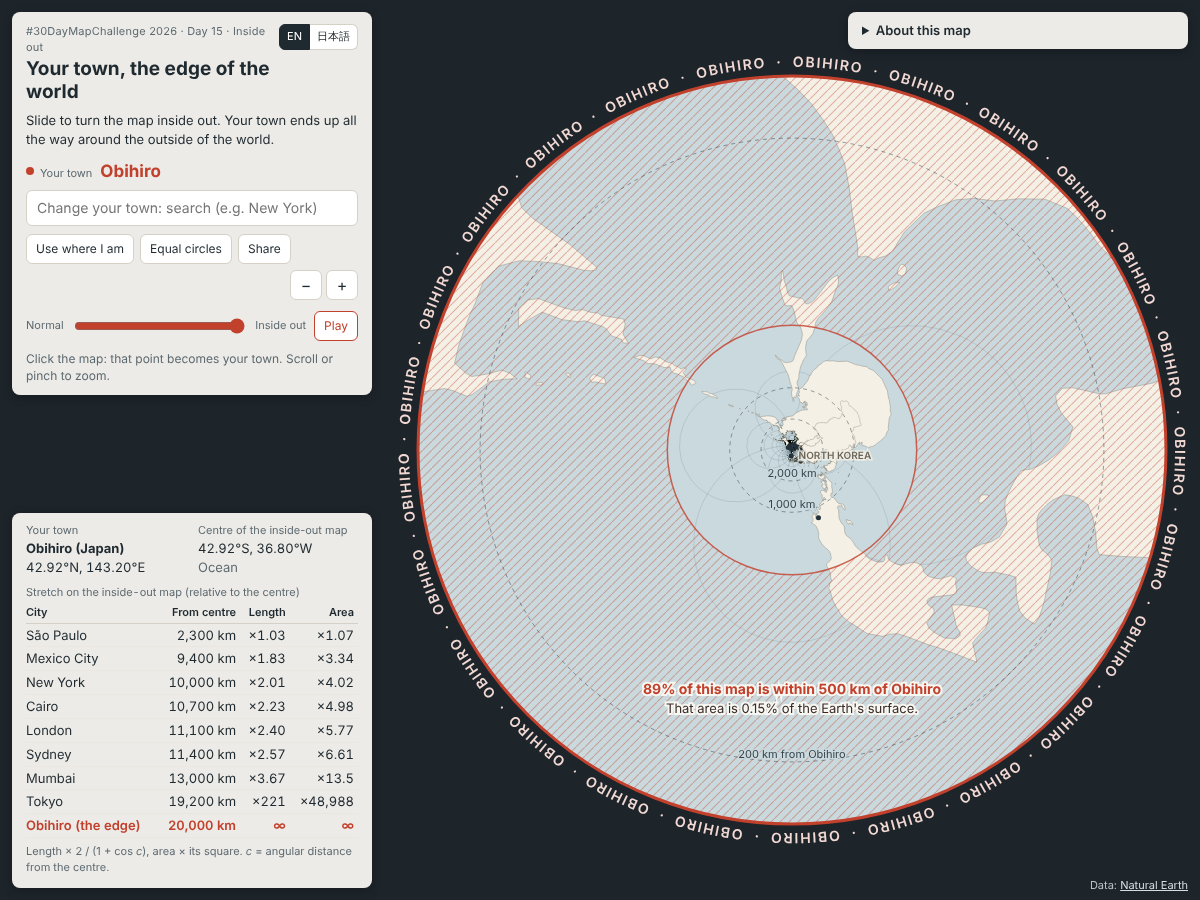
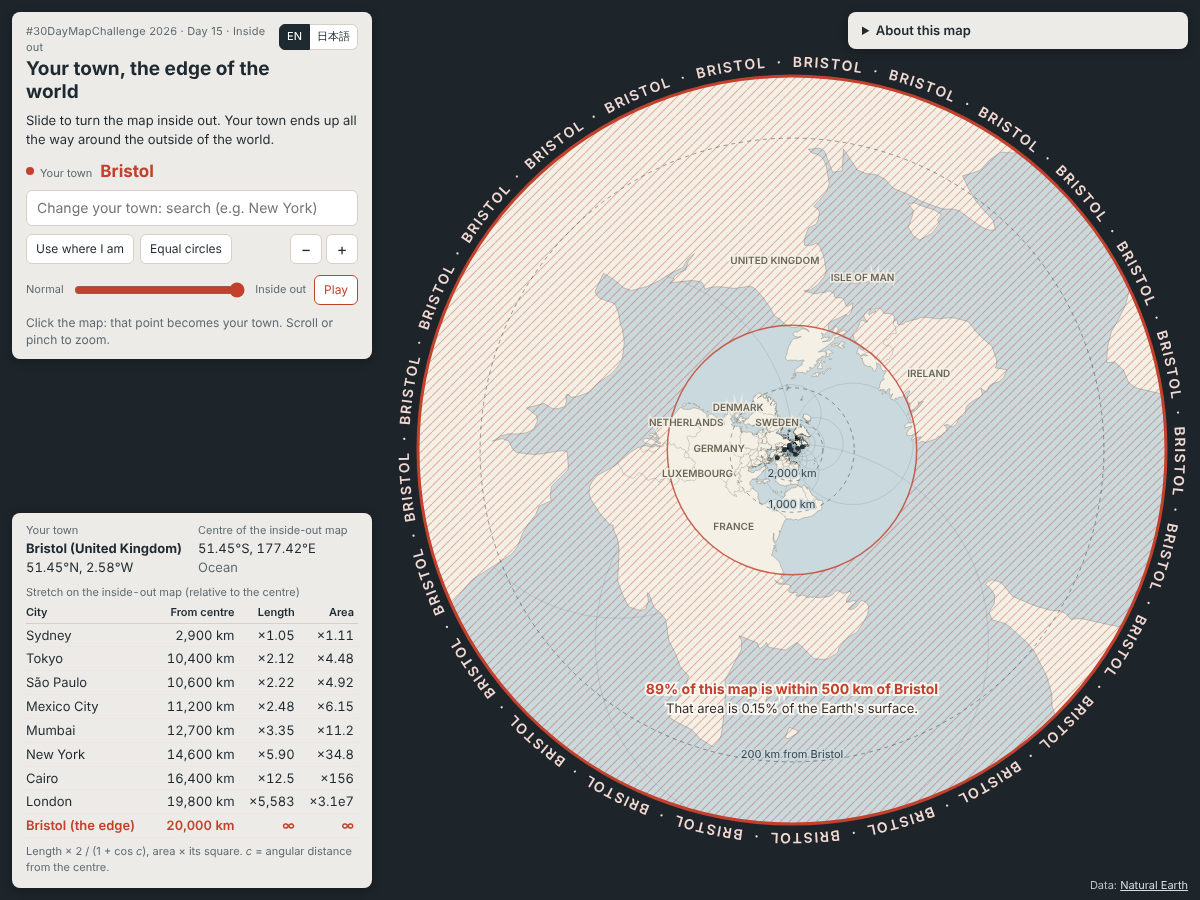
Open with Bristol and remove the Share button

diff --git a/app.js b/app.js
@@ -5,7 +5,7 @@
   const CLIP = 178.5; // degrees from the centre that are drawn
   const EARTH_R = 6371; // km
   const CIRCLE_KM = 500;
-  const DEFAULT = { lat: 42.92, lon: 143.2, name: "Obihiro", ja: "帯広市", country: "Japan" };
+  const DEFAULT = { lat: 51.45, lon: -2.58, name: "Bristol", ja: "ブリストル", country: "United Kingdom" };
   const REF_CITIES = [
     { name: "Tokyo", ja: "東京", lat: 35.687, lon: 139.749 },
     { name: "New York", ja: "ニューヨーク", lat: 40.752, lon: -73.982 },
@@ -44,7 +44,6 @@
       searchPlaceholder: "Change your town: search (e.g. New York)",
       useLocation: "Use where I am",
       circles: "Equal circles",
-      share: "Share",
       flipNormal: "Normal",
       flipInside: "Inside out",
       flipLabel: "Turn the map inside out",
@@ -66,7 +65,7 @@
       aboutP3: "At the left end of the slider the map is centred on your town, like an ordinary map. Moving the slider turns the centre away, until it reaches the point on the exact opposite side of the Earth. In this projection the point opposite the centre is stretched to infinite size, so your town can no longer be drawn as a point: it wraps around the whole map as its outer edge. The area within 500 km of it (the red band) then fills 89% of the map, and the rest of the world is squeezed into the middle.",
       notesH: "Notes",
       note1: "The map is cut at 178.5° from the centre. On the inside-out map, the small area within 1.5° (about 170 km) of your town cannot be drawn; the outer circle stands for it.",
-      note2: "Your location is used only inside your browser. It is not sent anywhere and not saved. It is added to a link only if you press Share and confirm.",
+      note2: "Your location is used only inside your browser. It is not sent anywhere and not saved. It is not written to the address bar.",
       note3: 'Data: <a href="https://www.naturalearthdata.com/">Natural Earth</a> (public domain): Admin 0 countries 1:110m and 1:50m (via <a href="https://github.com/topojson/world-atlas">world-atlas</a>), Populated Places 1:10m.',
       credit: 'Data: <a href="https://www.naturalearthdata.com/">Natural Earth</a>',
       ocean: "Ocean",
@@ -84,9 +83,6 @@
       geoDenied: "Location permission was not given.",
       geoFailed: "Could not get your location.",
       geoUsed: "Your location is used only in this browser. It is not sent or saved.",
-      shareConfirm: "This link contains your current location (rounded to about 1 km). Anyone who opens it will see where you are. Share it?",
-      copied: "Link copied.",
-      copyFailed: "Copy this link:",
       zoomIn: "Zoom in",
       zoomOut: "Zoom out",
       mapLabel: (n) => `Stereographic world map that turns inside out: ${n} becomes the outer edge of the world.`,
@@ -98,10 +94,9 @@
       yourTown: "あなたの町",
       townOnMap: (n) => `${n}（あなたの町）`,
       searchLabel: "町を検索",
-      searchPlaceholder: "あなたの町を変える：検索（例：札幌、New York）",
+      searchPlaceholder: "あなたの町を変える：検索（例：帯広、New York）",
       useLocation: "現在地にする",
       circles: "同じ大きさの円",
-      share: "共有",
       flipNormal: "ふつう",
       flipInside: "裏返し",
       flipLabel: "地図を裏返す",
@@ -123,7 +118,7 @@
       aboutP3: "スライダーの左端では、あなたの町を中心にしたふつうの地図です。スライダーを動かすと中心が移っていき、右端で地球のちょうど裏側の地点に着きます。この図法では中心の裏側の点が無限大に引き伸ばされるので、あなたの町は点として描けなくなり、地図全体を囲む外周になります。このとき、町から500 km以内（赤い帯）が地図の89%を占め、残りの世界は中央に押し込まれます。",
       notesH: "注記",
       note1: "中心から178.5°より外側は切り取っています。裏返した地図では、あなたの町から1.5°（約170 km）以内は描けないため、外周の円がその場所を表します。",
-      note2: "位置情報はブラウザの中だけで使い、どこにも送信せず、保存もしません。「共有」を押して確認したときだけ、リンクに含めます。",
+      note2: "位置情報はブラウザの中だけで使い、どこにも送信せず、保存もしません。アドレスバーにも書き込みません。",
       note3: '出典：<a href="https://www.naturalearthdata.com/">Natural Earth</a>（パブリックドメイン）。国境 1:110m・1:50m（<a href="https://github.com/topojson/world-atlas">world-atlas</a> 経由）、Populated Places 1:10m。',
       credit: '出典：<a href="https://www.naturalearthdata.com/">Natural Earth</a>',
       ocean: "海",
@@ -141,9 +136,6 @@
       geoDenied: "位置情報の利用が許可されませんでした。",
       geoFailed: "現在地を取得できませんでした。",
       geoUsed: "位置情報はこのブラウザの中だけで使い、送信・保存はしません。",
-      shareConfirm: "このリンクには現在地（約1 km単位に丸めたもの）が含まれます。開いた人にあなたの居場所がわかります。共有しますか？",
-      copied: "リンクをコピーしました。",
-      copyFailed: "このリンクをコピーしてください：",
       zoomIn: "拡大",
       zoomOut: "縮小",
       mapLabel: (n) => `裏返るステレオ図法の世界地図。${n}が世界の外周になります。`,
@@ -158,7 +150,7 @@
   const canvas = $("map");
   const ctx = canvas.getContext("2d");
   const els = {
-    q: $("q"), results: $("results"), geo: $("geo"), circles: $("circles"), share: $("share"),
+    q: $("q"), results: $("results"), geo: $("geo"), circles: $("circles"),
     zoomIn: $("zoomIn"), zoomOut: $("zoomOut"), status: $("status"), flip: $("flip"), play: $("play"),
     selName: $("selName"), selCoord: $("selCoord"), ctrCoord: $("ctrCoord"), ctrKind: $("ctrKind"),
     stretchBody: $("stretchBody"), circleLegend: $("circleLegend"), info: $("info"), infoToggle: $("infoToggle"),
@@ -727,26 +719,6 @@
     return { lat, lon, name, ja: "", country: "", source: "url" };
   }
 
-  function shareUrl() {
-    const s = state.sel;
-    const params = new URLSearchParams();
-    params.set("lat", s.lat.toFixed(2));
-    params.set("lon", s.lon.toFixed(2));
-    if (s.name && s.source !== "geo") params.set("name", s.name);
-    return `${location.origin}${location.pathname}?${params.toString()}`;
-  }
-
-  async function share() {
-    if (state.sel.source === "geo" && !window.confirm(t("shareConfirm"))) return;
-    const url = shareUrl();
-    try {
-      await navigator.clipboard.writeText(url);
-      setStatus(t("copied"));
-    } catch (e) {
-      window.prompt(t("copyFailed"), url);
-    }
-  }
-
   // ---------- search ----------
   function buildIndex() {
     searchIndex = places.map((p) => {
@@ -875,7 +847,6 @@
     els.circleLegend.hidden = !state.showCircles;
     render(false);
   });
-  els.share.addEventListener("click", share);
   els.geo.addEventListener("click", () => {
     if (!("geolocation" in navigator)) { setStatus(t("geoUnsupported")); return; }
     setStatus(t("geoWaiting"));

diff --git a/index.html b/index.html
@@ -30,7 +30,7 @@
 
   <div class="town">
     <span class="town-label" data-i18n="yourTown">Your town</span>
-    <strong id="townName">Obihiro</strong>
+    <strong id="townName">Bristol</strong>
   </div>
 
   <div class="search">
@@ -44,7 +44,6 @@
   <div class="buttons">
     <button type="button" id="geo" data-i18n="useLocation">Use my location</button>
     <button type="button" id="circles" aria-pressed="false" data-i18n="circles">Equal circles</button>
-    <button type="button" id="share" data-i18n="share">Share</button>
     <span class="zoom">
       <button type="button" id="zoomOut" aria-label="Zoom out">−</button>
       <button type="button" id="zoomIn" aria-label="Zoom in">+</button>
@@ -91,7 +90,7 @@
     <h2 data-i18n="notesH">Notes</h2>
     <ul>
       <li data-i18n="note1">The map is cut at 178.5° from the centre. The small area within 1.5° (about 170 km) of the chosen place cannot be drawn; the outer circle stands for it.</li>
-      <li data-i18n="note2">Your location is used only inside your browser. It is not sent anywhere and not saved. It is added to a link only if you press Share and confirm.</li>
+      <li data-i18n="note2">Your location is used only inside your browser. It is not sent anywhere and not saved. It is not written to the address bar.</li>
       <li data-i18n-html="note3">Data: <a href="https://www.naturalearthdata.com/">Natural Earth</a> (public domain): Admin 0 countries 1:110m and 1:50m (via <a href="https://github.com/topojson/world-atlas">world-atlas</a>), Populated Places 1:10m.</li>
     </ul>
   </div>

diff --git a/README.md b/README.md
@@ -5,11 +5,11 @@
 
 **Live:** https://shinyanakashima.github.io/30daymapchallenge-2026day15-edge-of-the-world-/
 
-![Obihiro selected: the map is centred on its antipode in the South Atlantic, and Obihiro wraps around the outer edge](docs/screenshot.png)
+![Bristol turned inside out: Great Britain wraps around the outer edge and the rest of the world sits in the middle](docs/screenshot.png)
 
 Pick your town. At first it sits in the middle of an ordinary-looking map. Move the slider (or press **Play**) and the map turns inside out: the centre travels to the other side of the Earth, your town is pushed outward and stretched until it wraps around the whole map as its outer edge, and the rest of the world is squeezed into the middle.
 
-The map opens with Obihiro, Hokkaido (42.92°N, 143.20°E) and plays the turn once. When it is inside out, the centre is 42.92°S, 36.80°W in the South Atlantic Ocean, and Hokkaido and the sea around it fill most of the disc.
+The map opens with Bristol, UK (51.45°N, 2.58°W) and plays the turn once. When it is inside out, the centre is 51.45°S, 177.42°E in the Pacific Ocean south-east of New Zealand, and Great Britain, Ireland and the seas around them fill most of the disc.
 
 The page is in English and can be switched to Japanese (日本語).
 
@@ -22,7 +22,7 @@ The page is in English and can be switched to Japanese (日本語).
 - **Normal ↔ Inside out** slider: turn the map by hand. **Play** runs the turn again.
 - **Scroll / pinch** or **− / +** to zoom.
 - **Equal circles** shows circles that all have a 500 km radius on the ground, placed at increasing distance from the centre (the same idea as Tissot's indicatrix).
-- **Share** copies a link of the form `?lat=&lon=&name=`. If your town came from your location, you are asked to confirm first.
+- The address bar holds your town as `?lat=&lon=&name=`, so the page can be bookmarked or linked. A town that came from your location is not written there.
 - The red hatched band is everything within 500 km of your town. On the inside-out map it covers 89% of the map, but only 0.15% of the Earth's surface.
 - Country names appear where the map is enlarged enough to fit them.
 
@@ -40,7 +40,7 @@ The panel also shows the centre of the inside-out map and whether it is on land 
 ## Notes
 
 - **Clipping.** The map is cut at 178.5° from the centre (`clipAngle(178.5)`). The area within 1.5° (about 170 km) of your town is not drawn; the outer circle stands for it.
-- **Location.** Your location is used only inside your browser. It is not sent anywhere and not saved, and it is not written to the address bar. It goes into a link only if you press Share and confirm.
+- **Location.** Your location is used only inside your browser. It is not sent anywhere and not saved, and it is not written to the address bar.
 - Country borders use the 1:110m data while the map is moving and the 1:50m data when it stops.
 
 ## Data
